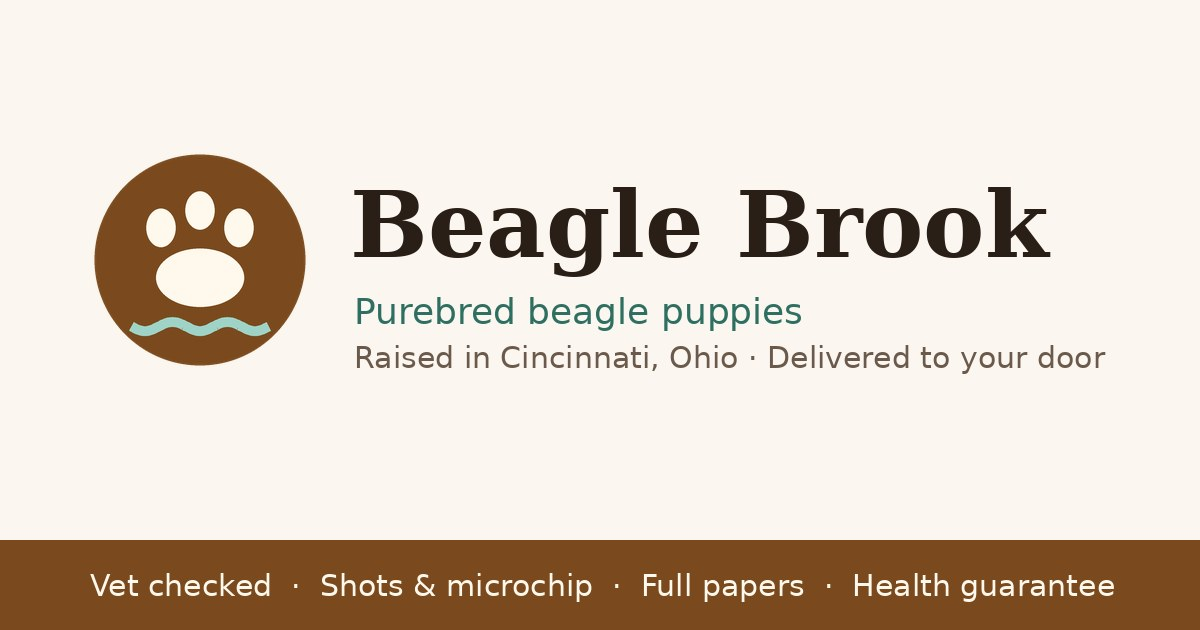
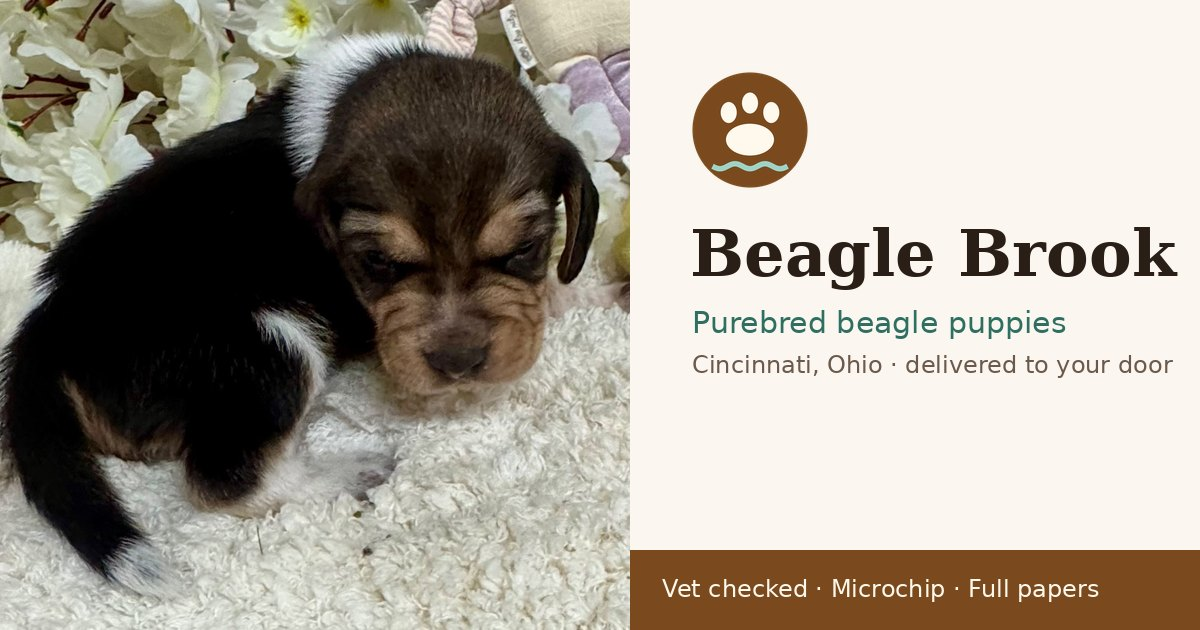
Beagle Brook: starter beagle photo for the home page and puppy care guide
- a tricolor beagle puppy photo (saved without metadata) is the home
  page image until one is uploaded or a puppy has photos, and the main
  image of the beagle puppy care guide, with descriptive alt text
- the link-preview image now shows the puppy next to the name
- guide photos stay within the text column instead of being stretched

Claude-Session: https://claude.ai/code/session_01KMwRAQzP3nADfaKBZw9bdV

diff --git a/beaglebrook/assets/style.css b/beaglebrook/assets/style.css
@@ -263,7 +263,8 @@ tbody th{font-weight:600}
 tbody tr:last-child th,tbody tr:last-child td{border-bottom:0}
 .article .phead{max-width:860px}
 .meta{color:var(--muted);font-size:.92rem}
-.art-img img{border-radius:var(--r);margin:10px 0 20px;max-height:480px;width:100%;object-fit:cover}
+.art-img{max-width:760px}
+.art-img img{border-radius:var(--r);margin:10px 0 20px;width:100%;aspect-ratio:16/9;object-fit:cover}
 .art-grid{display:grid;gap:34px}
 @media(min-width:1000px){.art-grid{grid-template-columns:minmax(0,760px) 300px;justify-content:space-between}}
 .art-side{display:flex;flex-direction:column;gap:18px}

diff --git a/beaglebrook/inc/views.php b/beaglebrook/inc/views.php
@@ -57,6 +57,9 @@ function icon_for($title){
   return 'check';
 }
 
+/* the home page photo until one is uploaded in Settings (and no puppy has photos yet) */
+const SITE_HERO = 'assets/site/tricolor-beagle-puppy-4x3.jpg';
+
 /* the logo: a paw over a brook, and the name */
 function logo_svg($class='logo-mark'){
   return '<svg class="'.h($class).'" viewBox="0 0 48 48" aria-hidden="true" focusable="false"><circle cx="24" cy="24" r="23" fill="var(--brand)"/>'
@@ -174,7 +177,7 @@ function puppy_card($p){
 }
 function article_card($a){
   $o = '<article class="acard"><a href="'.h(url(article_path($a))).'">';
-  if(($a['image'] ?? '') !== '') $o .= img_tag($a['image'], $a['title'], '(max-width:600px) 100vw, 360px');
+  if(($a['image'] ?? '') !== '') $o .= img_tag($a['image'], $a['image_alt'] ?? $a['title'], '(max-width:600px) 100vw, 360px');
   return $o.'<h3>'.h($a['title']).'</h3><p>'.h(fill($a['excerpt'] ?? plain($a['body'], 140))).'</p><span class="more">Read '.($a['type'] === 'blog' ? 'post' : 'guide').' '.icon('arrow').'</span></a></article>';
 }
 function parent_mini($p){
@@ -495,6 +498,7 @@ function view_home(){
   $parents = array_values(array_filter($SITE['parents'], fn($p)=>empty($p['hidden']) && empty($p['retired'])));
   $hero = $CFG['hero_photo'] !== '' ? img_tag($CFG['hero_photo'], 'Beagle puppies at '.$CFG['brand'], '(max-width:900px) 100vw, 560px', true) : '';
   if($hero === '' && $avail && !empty($avail[0]['photos'][0])) $hero = img_tag($avail[0]['photos'][0], $avail[0]['name'].', '.strtolower(puppy_kind($avail[0])), '(max-width:900px) 100vw, 560px', true);
+  if($hero === '') $hero = img_tag(SITE_HERO, 'Tricolor beagle puppy at '.$CFG['brand'], '(max-width:900px) 100vw, 560px', true);
   ?>
   <section class="hero"><div class="wrap hero-in">
     <div class="hero-t">
@@ -804,7 +808,7 @@ function view_article(){
       <h1><?= h($h1) ?></h1>
       <p class="meta">By <?= h($CFG['brand']) ?>, beagle breeder in <?= h($CFG['city'].', '.$CFG['state']) ?> · <?= ($art['updated'] ?? '') !== '' && $art['updated'] !== $art['date'] ? 'Updated <time datetime="'.h($art['updated']).'">'.h(nice_date($art['updated'])).'</time>' : '<time datetime="'.h($art['date']).'">'.h(nice_date($art['date'])).'</time>' ?><?= !$zh && $words > 300 ? ' · '.max(1, (int)round($words / 230)).' min read' : '' ?></p>
     </header>
-    <?php if(($art['image'] ?? '') !== ''): ?><div class="art-img"><?= img_tag($art['image'], $art['title'], '(max-width:900px) 100vw, 860px', true) ?></div><?php endif; ?>
+    <?php if(($art['image'] ?? '') !== ''): ?><div class="art-img"><?= img_tag($art['image'], $art['image_alt'] ?? $art['title'], '(max-width:900px) 100vw, 860px', true) ?></div><?php endif; ?>
     <div class="art-grid">
       <div class="prose"><?= rich($art['body'], page_blocks()) ?></div>
       <aside class="art-side">

diff --git a/beaglebrook/inc/articles/buying.php b/beaglebrook/inc/articles/buying.php
@@ -269,6 +269,7 @@ TXT
 ],
 [
   'slug'=>'beagle-puppy-care', 'type'=>'guide', 'group'=>'buying', 'date'=>'2026-10-29',
+  'image'=>'assets/site/tricolor-beagle-puppy-4x3.jpg', 'image_alt'=>'A young tricolor baby beagle puppy resting on a soft white blanket',
   'title'=>'Beagle Puppy Care: Your First 30 Days With a Baby Beagle',
   'seo_title'=>'Beagle Puppy Care Guide: The First 30 Days at Home',
   'seo_desc'=>'Bringing home a beagle puppy? A week-by-week guide to the first 30 days: supplies, feeding schedule, potty and crate training, vet visits, socialization and sleep.',

diff --git a/beaglebrook/README.md b/beaglebrook/README.md
@@ -98,7 +98,7 @@ Your data (puppies, inquiries, waitlist, sign-in, settings) lives in `data/`, an
 | `inc/defaults.php` | Starting settings, guarantees, payment methods and trust pages. |
 | `inc/articles/` | Starting guides and blog posts. |
 | `admin.php` | The admin. |
-| `assets/` | Styles, logo, icons, link-preview image; `uploads/` holds your photos. |
+| `assets/` | Styles, logo, icons, link-preview image; `site/` holds the starter beagle photo (home page until you upload your own, and the puppy care guide); `uploads/` holds your photos. |
 | `data/` | Your content, inquiries, waitlist and sign-in (blocked from the web). |
 | `docs/keyword-map.md` | Which page targets which keywords. Not uploaded. |
 | `tools/build-zip.php` | Builds the upload zip. |
